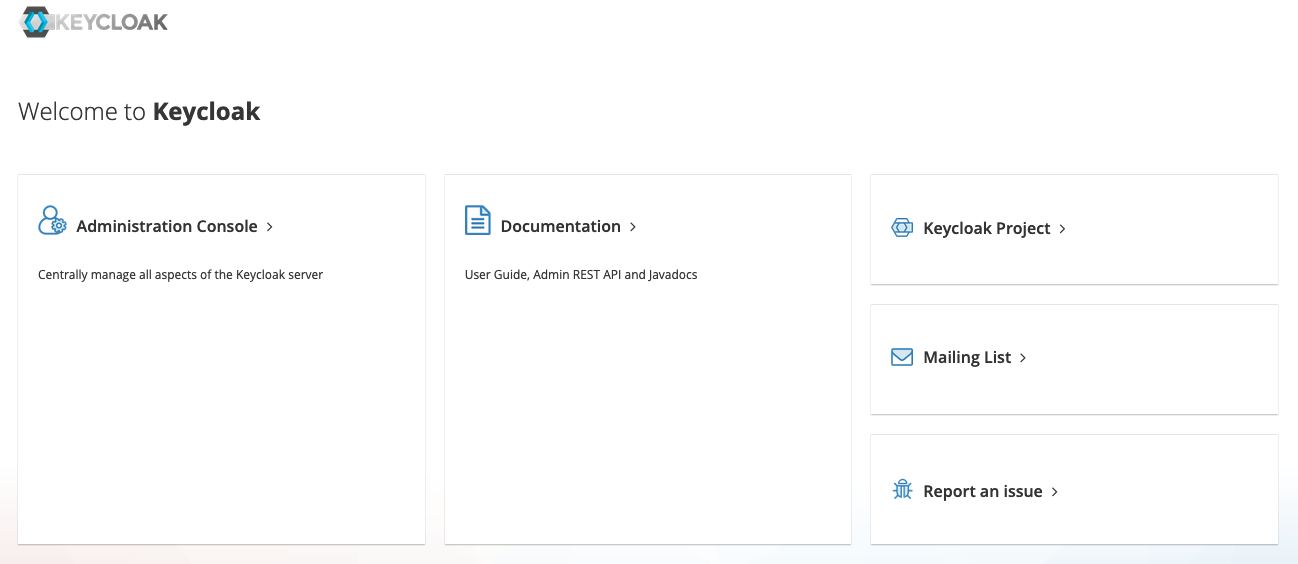
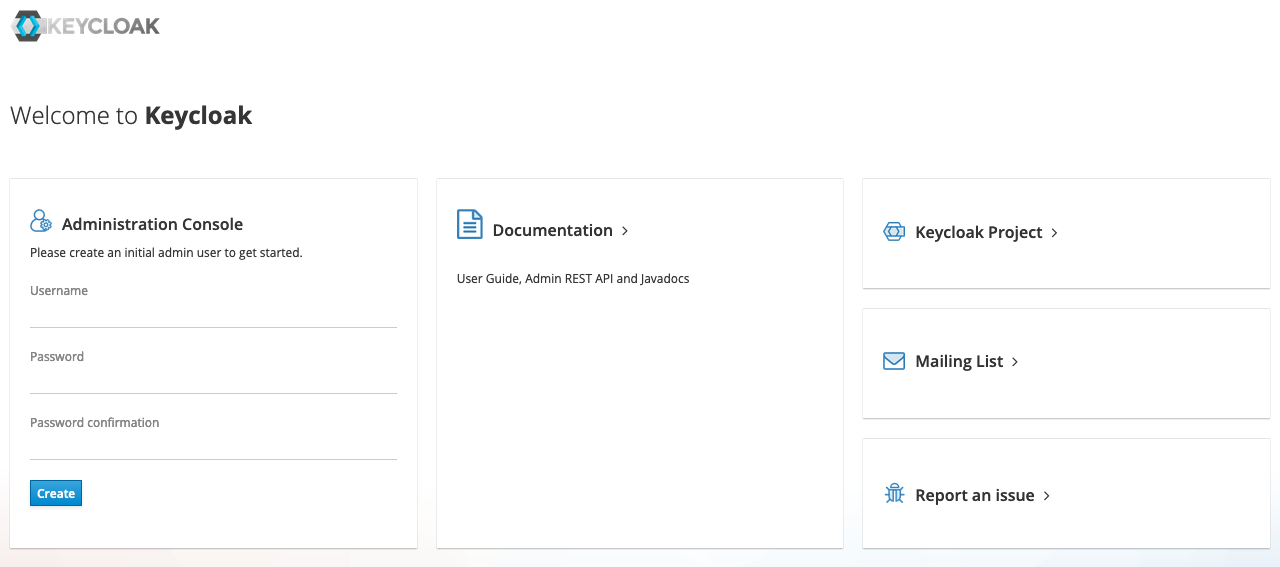
README img testing

diff --git a/README.md b/README.md
@@ -17,16 +17,19 @@ Once the compressed file is downloaded you can just unzip it and run the `kc.bat
 
 My command would result : `bin/kc.sh start-dev --http-port=8081`
 
-Now if we reach to the http://localhost:8081 we should be presented with this :
+Now if we reach to the http://localhost:8081 URL we should be presented with this :
 
 ![Welcome to Keycloak](./img/Welcome%20to%20Keycloak.png)
 
-There we can access the **Administration Console**, just put some random values in the login form presented and those will be your credentials to access said console and manage the server.
+There we have to access the **Administration Console** to which we have to register with username and password credentials.
+Its going to be the Administration Console that will allow us to manage the Keycloak server.
 
 ### Creating a Realm
 The first step to manage one or more applications is creating a **Realm**. A Realm is basically a group of clients and users under the same "roof" to which are applied a common set of rules.
 
+<img align="left" src="/img/Keycloak Administration Console.png" width="50%"/>
+<img align="left" src="/img/Keycloak Realm List.png" width="50%"/>
 
-<img align="left" src="/img/Keycloak%20Administration%20Console.png" width="200"/>
+Click on the **master** option at the top of left menu, and there it will allow you to create a new realm. 
+Fill in the "name" field with the name of your realm, I went with `SpringBootKeycloak`, and then click "Create".
 
-Click on the **master** option at the top of left menu, and there it will allow you to create a new realm.
